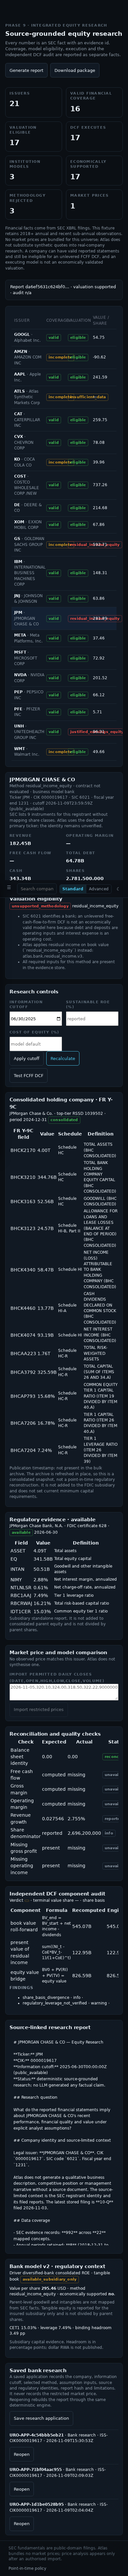
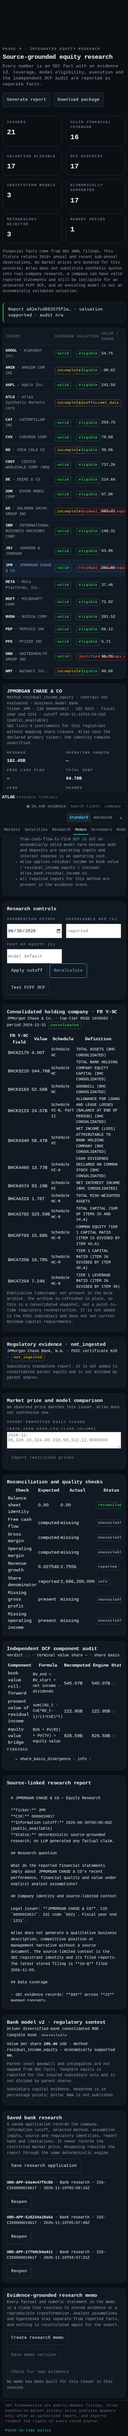
fix(atlas): repair the browser acceptance journeys and their mobile layout
Migration 014 moved the schema head to 14, so four Playwright journeys that
asserted a literal schema number aborted before rendering anything. They now read
the head from the migration chain through a shared helper, and a test fails if a
literal returns. The reproduction script had the same pin.

Running the journeys then measured the Standard shell at 431 px inside a 390 px
viewport: the utility cluster could not wrap, the company card's ticker list was
nowrap, and the research company selector kept its intrinsic width. All eleven
Standard routes now measure scrollWidth 390 at 390x844, and both journeys pass
(7/7 and 8/8) with fresh evidence.

🤖 Generated with Codebuff

diff --git a/web/src/styles.css b/web/src/styles.css
@@ -198,7 +198,9 @@ p { margin: 0 0 8px; }
   min-width: 0;
 }
 .field:focus { outline: 1px solid var(--accent); border-color: var(--accent); }
-.inline-field { display: inline-flex; align-items: center; gap: 7px; font-size: 12px; color: var(--text-muted); }
+.inline-field { display: inline-flex; align-items: center; gap: 7px; font-size: 12px; color: var(--text-muted); min-width: 0; flex-wrap: wrap; }
+/* A long option list must not force the whole page wider than a phone viewport. */
+.inline-field .field { min-width: 0; max-width: 100%; }
 .inline-form { display: flex; gap: 8px; margin-bottom: 12px; flex-wrap: wrap; }
 .inline-form .field { flex: 1; min-width: 180px; }
 .toolbar { display: flex; align-items: center; gap: 10px; margin-bottom: 12px; }
@@ -326,7 +328,7 @@ p { margin: 0 0 8px; }
 }
 .company-card:hover { border-color: var(--accent); text-decoration: none; }
 .company-card-head { display: flex; justify-content: space-between; gap: 12px; align-items: flex-start; }
-.company-card-tickers { color: var(--accent); font-size: 13px; white-space: nowrap; }
+.company-card-tickers { color: var(--accent); font-size: 13px; overflow-wrap: anywhere; min-width: 0; }
 .company-card-stats { display: grid; grid-template-columns: repeat(4, 1fr); gap: 8px; }
 .company-card-stats div { display: flex; flex-direction: column; gap: 2px; }
 .company-card-stats .mono { font-size: 15px; }

diff --git a/web/src/design/advanced.css b/web/src/design/advanced.css
@@ -416,6 +416,11 @@
 /* Phones: the command trigger, mode switch and theme control cannot share one
  * 390 px row without overlapping, so the header wraps and secondary facts drop. */
 @media (max-width: 560px) {
+  /* The utilities cluster (evidence count, search, mode switch, theme) is wider than a
+   * 390 px row, so it wraps inside itself instead of pushing the document sideways. */
+  .std-header-row { gap: var(--space-2); padding: var(--space-2) var(--space-3); }
+  .std-utilities { gap: var(--space-2); min-width: 0; flex-wrap: wrap; justify-content: flex-end; }
+  .std-search { width: min(180px, 46vw); }
   .adv-shell { grid-template-rows: auto auto minmax(0, 1fr) 22px; }
   .adv-header { flex-wrap: wrap; gap: var(--space-2); padding: var(--space-2) var(--space-3); }
   .adv-brand small { display: none; }

diff --git a/tests/test_browser_journeys_schema_pin.py b/tests/test_browser_journeys_schema_pin.py
@@ -1,0 +1,45 @@
+"""Browser journeys must not pin a numeric database schema version.
+
+A journey that asserts ``health.schema_version === 13`` fails the moment a legitimate
+migration lands, for a reason unrelated to the interface it certifies. That happened when
+migration 014 (Phase 9.5) moved the head to 14: four journeys broke before rendering a
+single page. They now read the migration head through ``web/e2e/schema.mjs``.
+"""
+
+from __future__ import annotations
+
+import re
+from pathlib import Path
+
+ROOT = Path(__file__).resolve().parents[1]
+E2E = ROOT / "web" / "e2e"
+MIGRATIONS = ROOT / "src" / "atlas" / "storage" / "migrations.py"
+
+PIN = re.compile(r"schema_version\s*===\s*\d+")
+
+
+def test_no_journey_pins_a_numeric_schema_version() -> None:
+    offenders = []
+    for path in sorted(E2E.glob("*.mjs")):
+        for number, line in enumerate(path.read_text(encoding="utf-8").splitlines(), 1):
+            if PIN.search(line):
+                offenders.append(f"{path.name}:{number}: {line.strip()}")
+    assert not offenders, (
+        "browser journeys must compare against LATEST_SCHEMA_VERSION from web/e2e/schema.mjs "
+        "instead of a literal:\n" + "\n".join(offenders)
+    )
+
+
+def test_the_helper_reads_the_migration_chain_it_claims_to_read() -> None:
+    helper = (E2E / "schema.mjs").read_text(encoding="utf-8")
+    assert "src/atlas/storage/migrations.py" in helper, (
+        "schema.mjs must read the migration chain rather than a copy of the number"
+    )
+    # The helper's pattern must still match the way migrations are declared in Python.
+    entries = MIGRATIONS.read_text(encoding="utf-8")
+    assert re.search(r"Migration\(\s*version=\d+", entries), (
+        "migrations.py no longer declares versions in the form the helper parses"
+    )
+    assert "Migration\\(\\s*version=(\\d+)" in helper, (
+        "schema.mjs no longer parses Migration(version=N, ...) declarations"
+    )

diff --git a/scripts/reproduce_phase9_2.py b/scripts/reproduce_phase9_2.py
@@ -1,5 +1,5 @@
 #!/usr/bin/env python
-"""Reproduce the exported Phase 9.2 application on a clean schema-13 database."""
+"""Reproduce the exported Phase 9.2 application on a clean, fully migrated database."""
 from __future__ import annotations
 
 import hashlib
@@ -13,6 +13,7 @@ sys.path.insert(0, str(ROOT / "src"))
 from atlas.applications.contracts import read_package
 from atlas.applications.service import ApplicationService
 from atlas.storage.db import Database
+from atlas.storage.migrations import LATEST_VERSION
 
 ARTIFACT = ROOT / "artifacts" / "phase9_2_application.atlas"
 payload = ARTIFACT.read_bytes()
@@ -86,7 +87,7 @@ assert result["execution"]["differences"] == {}, result["execution"]["difference
 assert result["package"]["sha256"] == result["package"]["package_sha256"]
 assert result["package"]["contains_restricted_price_289_91"] is False
 assert result["source_reconciliation"]["parent_form"] == "FR Y-9C"
-assert result["fresh_schema"] == 13
+assert result["fresh_schema"] == LATEST_VERSION
 outputs = result["execution"]["outputs"]
 assert outputs["book_value_basis"] == "sec_total_stockholders_equity_less_preferred_stock"
 assert outputs["common_equity_status"] == "derived_total_equity_less_preferred_stock"
